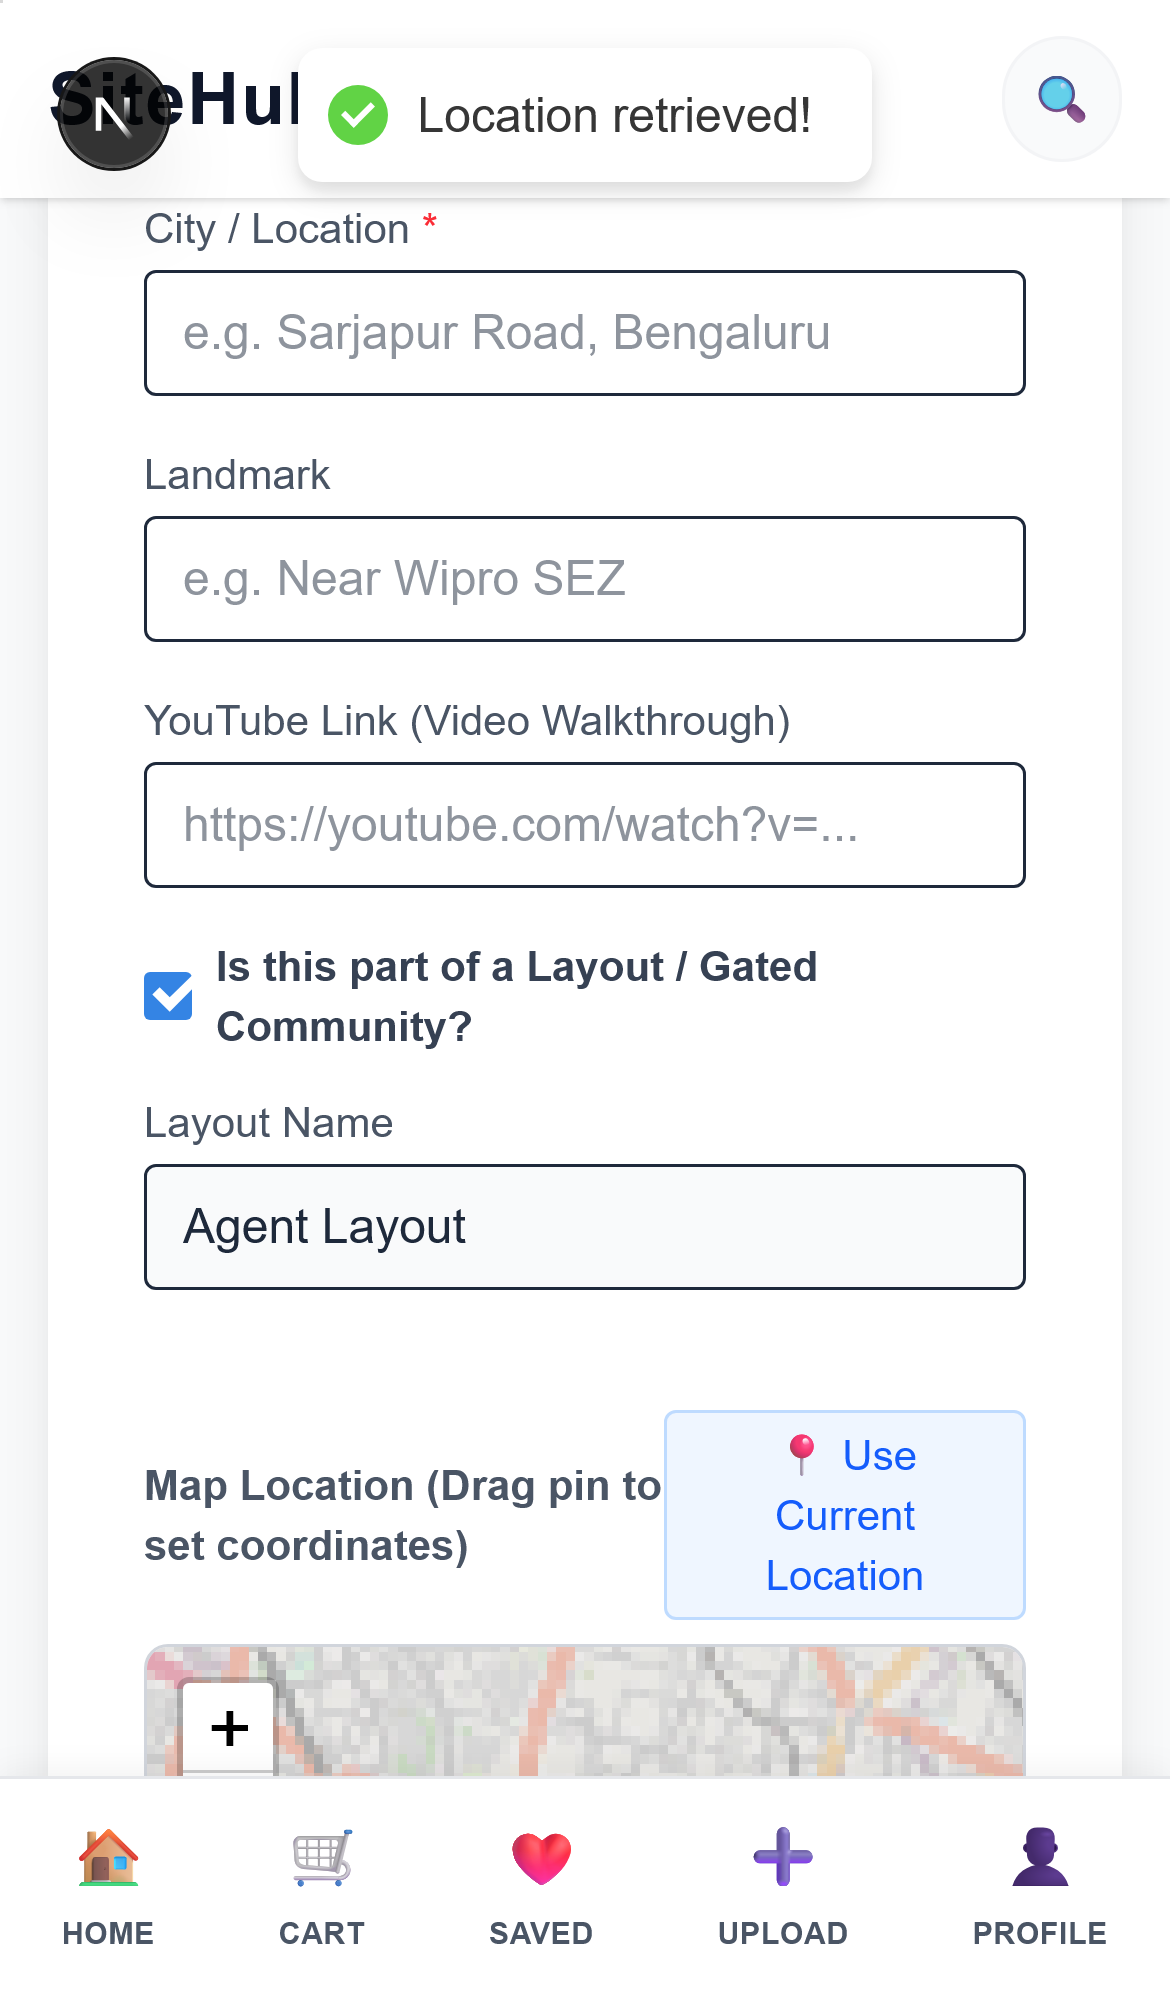
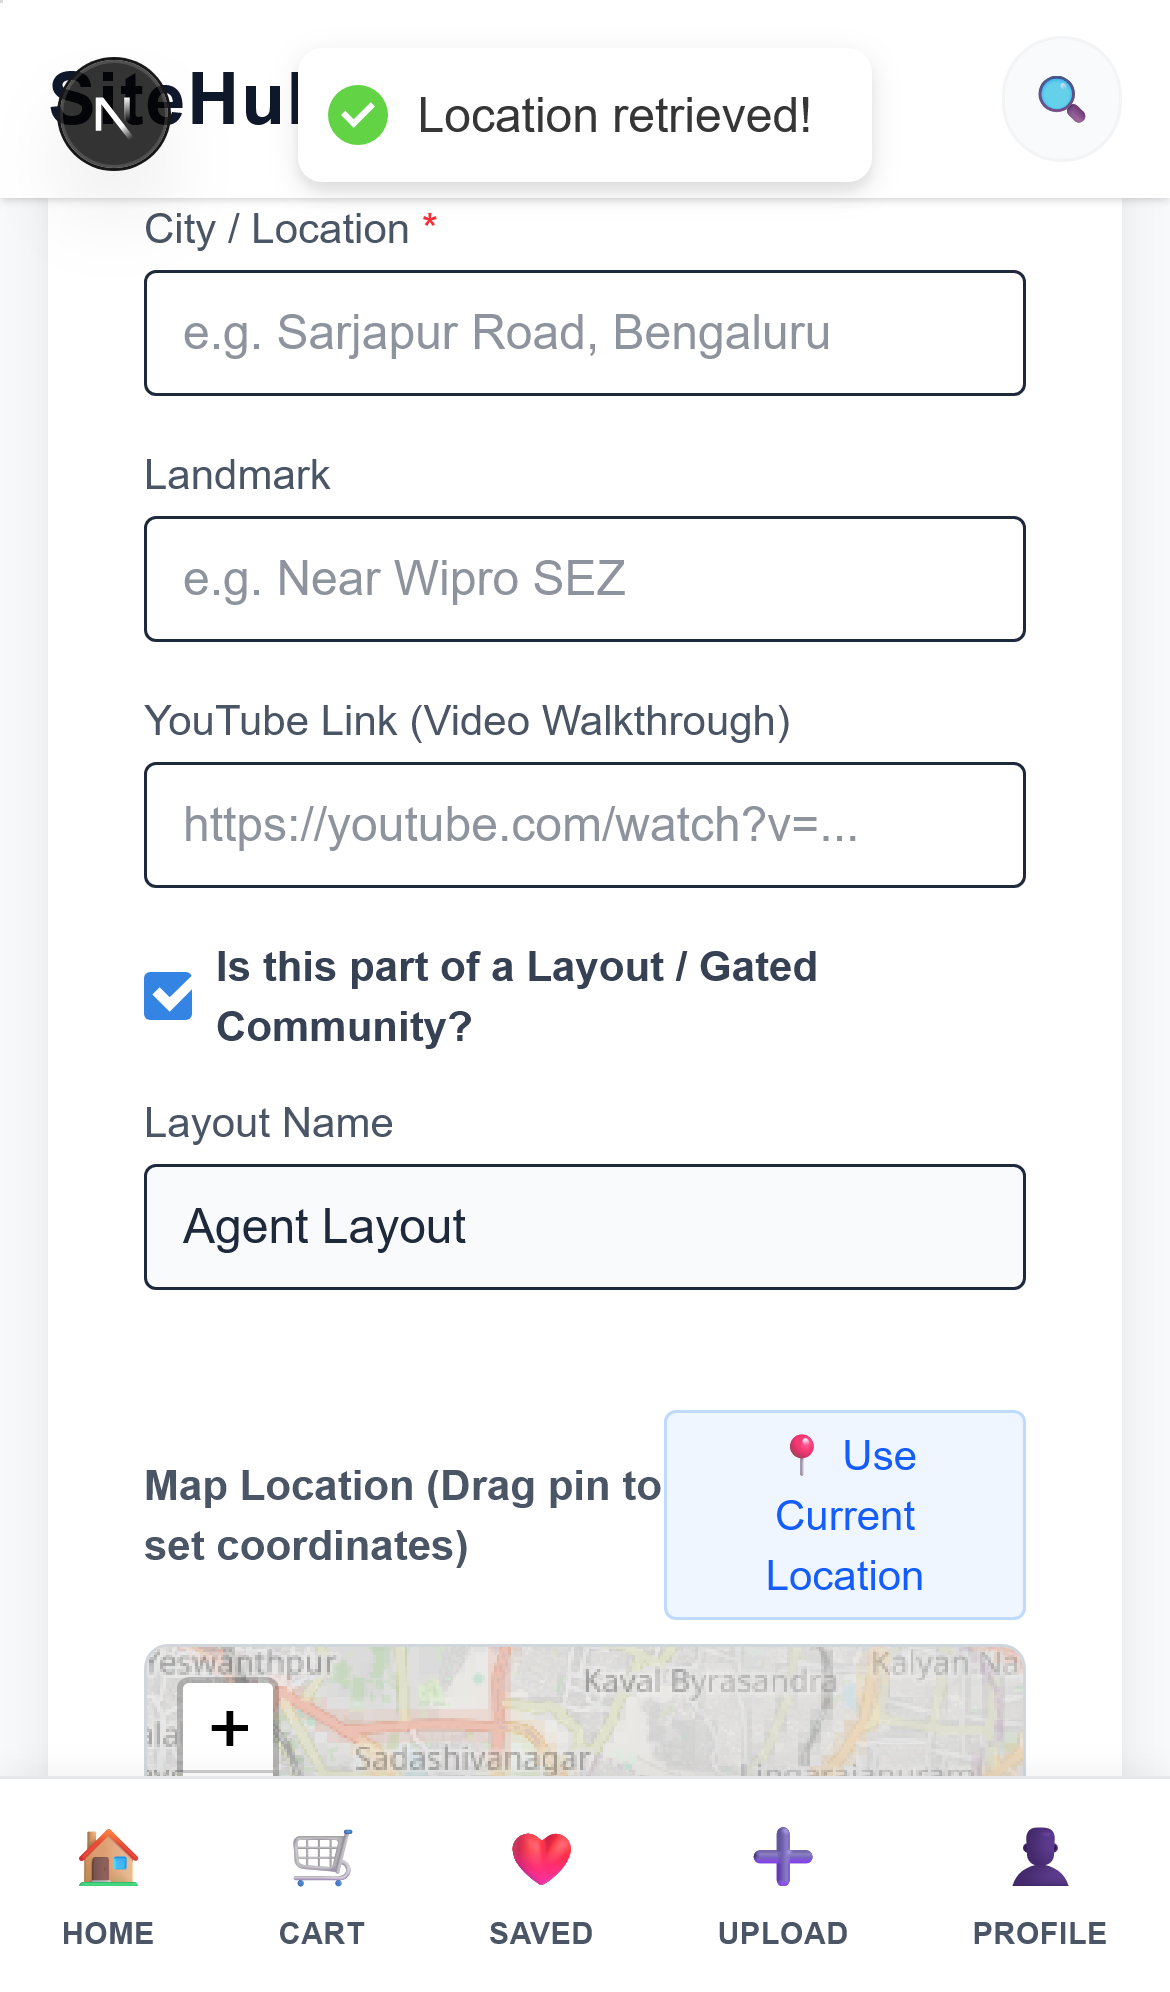
fix: resolve typescript build errors for cloud run

Changed region(s): [[0.1231, 0.8092, 0.8923, 0.9026]]

diff --git a/frontend/app/site/[site_code]/page.tsx b/frontend/app/site/[site_code]/page.tsx
@@ -21,6 +21,8 @@ interface Site {
   image?: string;
   images?: string[];
   youtube_url?: string;
+  latitude?: number;
+  longitude?: number;
 
   // Specs
   corner_site?: boolean;

diff --git a/frontend/app/upload-site/page.tsx b/frontend/app/upload-site/page.tsx
@@ -27,7 +27,6 @@ export default function UploadSitePage() {
     description: "",
     youtube_url: "",
     latitude: "",
-    latitude: "",
     longitude: "",
   });
 
